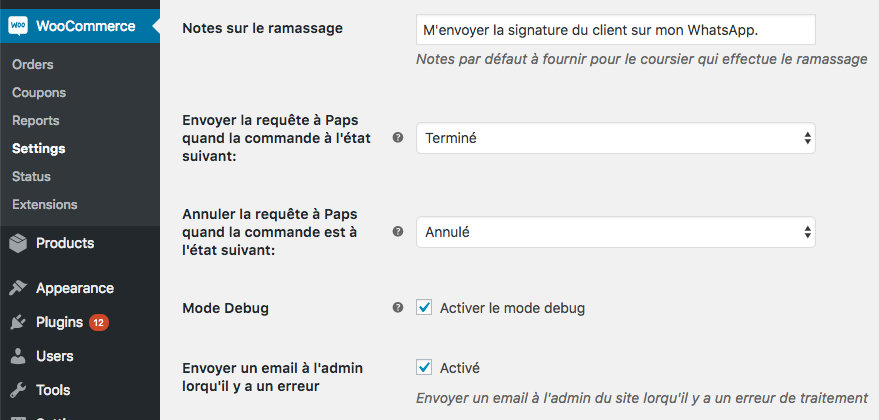
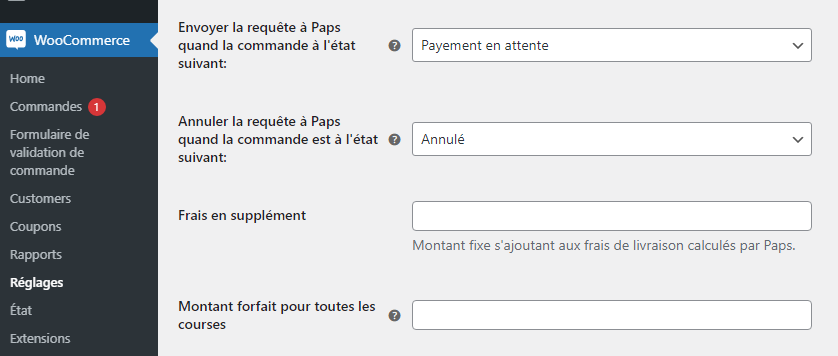
3.0.2 (#5)
* shipping at international settings

* update-version

* Update readme.txt

* Update readme.txt

* Update readme.txt

* Update readme.txt

* updated readme file and screenshots

* deletion of unnecessary fields!

diff --git a/includes/shipping/class-wc-shipping-paps-standard.php b/includes/shipping/class-wc-shipping-paps-standard.php
@@ -128,7 +128,21 @@ class WC_Shipping_Paps extends WC_Shipping_Method
       $pickup_adress = $this->get_option('pickup_address');
       $dropoff_address = null;
 
-      // wc_paps()->debug('Currency: ' . print_r(get_option('woocommerce_currency')));
+      if (
+        !$package['destination']['city'] ||
+        !$package['destination']['country']
+      ) {
+        return wc_paps()->debug(
+          "Il n'y a aucune adresse saisie lors de la commande, veuillez renseigner ce champs afin qu'on puisse calculer le tarif de la livraison de votre colis",
+          true
+        );
+      } else {
+        $dropoff_address =
+          ($package['destination']['address'] ? $package['destination']['address'] . ',' : '') .
+          $package['destination']['city'] . ',' .
+          ($package['destination']['state'] ? $package['destination']['state'] . ',' : '') . 
+          WC()->countries->countries[$package['destination']['country']];
+      }
 
       foreach ($package['contents'] as $item_id => $values) {
         $_product = $values['data'];
@@ -136,39 +150,12 @@ class WC_Shipping_Paps extends WC_Shipping_Method
         $quantity = $values['quantity'] ? $values['quantity'] : 1;
         $item_weight = $_product->get_weight() ? $_product->get_weight() : 1;
         $weight += $item_weight * $quantity;
-
-        if (
-          !$package['destination']['city'] ||
-          !$package['destination']['state']
-        ) {
-          return wc_paps()->debug(
-            "Il n'y a aucune adresse saisie lors de la commande, veuillez renseigner ce champs afin qu'on puisse calculer le tarif de la livraison de votre colis",
-            true
-          );
-        }
-        //  elseif (empty($package['destination']['address'])) {
-        //   # code...
-        // }
-        else {
-          $package_size = $this->get_package_size($weight);
-          $dropoff_address =
-            $package['destination']['address'] .
-            ',' .
-            $package['destination']['city'] .
-            ',' .
-            $package['destination']['state'];
-
-          if (
-            $package['destination']['country'] == "SN"
-          ) {
-            $dropoff_address = $dropoff_address . ", Senegal";
-          }
-        }  }
+      }
 
       $quoteRequestParams = array(
         'origin' => $pickup_adress,
         'destination' => $dropoff_address,
-        'packageSize' => $package_size
+        'weight' => $weight
       ); 
 
       $quote = wc_paps()
@@ -208,22 +195,6 @@ class WC_Shipping_Paps extends WC_Shipping_Method
       }
     }
   }
-
-  public function get_package_size($weight)
-  {
-    $package_size = "small";
-    if ($weight > 5 && $weight < 30) {
-      $package_size = "medium";
-    } elseif ($weight >= 30 && $weight < 60) {
-      $package_size = "large";
-    } elseif ($weight >= 60 && $weight < 100) {
-      $package_size = "xLarge";
-    } elseif ($weight >= 100) {
-	  $package_size = "xxLarge";
-	}
-    return $package_size;
-  }
-
 
   /**
    * Check if settings are not empty

diff --git a/includes/shipping/data-paps-settings-standard.php b/includes/shipping/data-paps-settings-standard.php
@@ -166,34 +166,6 @@ return array(
     ),
     'desc_tip' => true
   ),
-  'added_flat_rate' => array(
-    'title' => __('Frais en supplément', 'paps-wc'),
-    'type' => 'number',
-    'description' => __(
-      'Montant fixe s\'ajoutant aux frais de livraison calculés par Paps.',
-      'paps-wc'
-    ),
-    'default' => ''
-  ),
-  'flat_rate' => array(
-    'title' => __('Montant forfait pour toutes les courses', 'paps-wc'),
-    'type' => 'number',
-    'desc_tip' => true,
-    'description' => __(
-      'Montant fixe des frais de livraison sur toute la plateforme. Important: en choisissant ce mode vous supportez vous-même tous les frais de livraison s\'ajoutant au tarif normal de la course.',
-      'paps-wc'
-    ),
-    'default' => ''
-  ),
-  'signature_secret_key' => array(
-    'title' => __('Clé de Signature Secrète', 'paps-wc'),
-    'type' => 'text',
-    'description' => __(
-      'Optionnel, Utilisé pour valider les requêtes Webhook',
-      'paps-wc'
-    ),
-    'default' => ''
-  ),
   'pickup_notes' => array(
     'title' => __('Notes sur le ramassage', 'paps-wc'),
     'type' => 'text',
